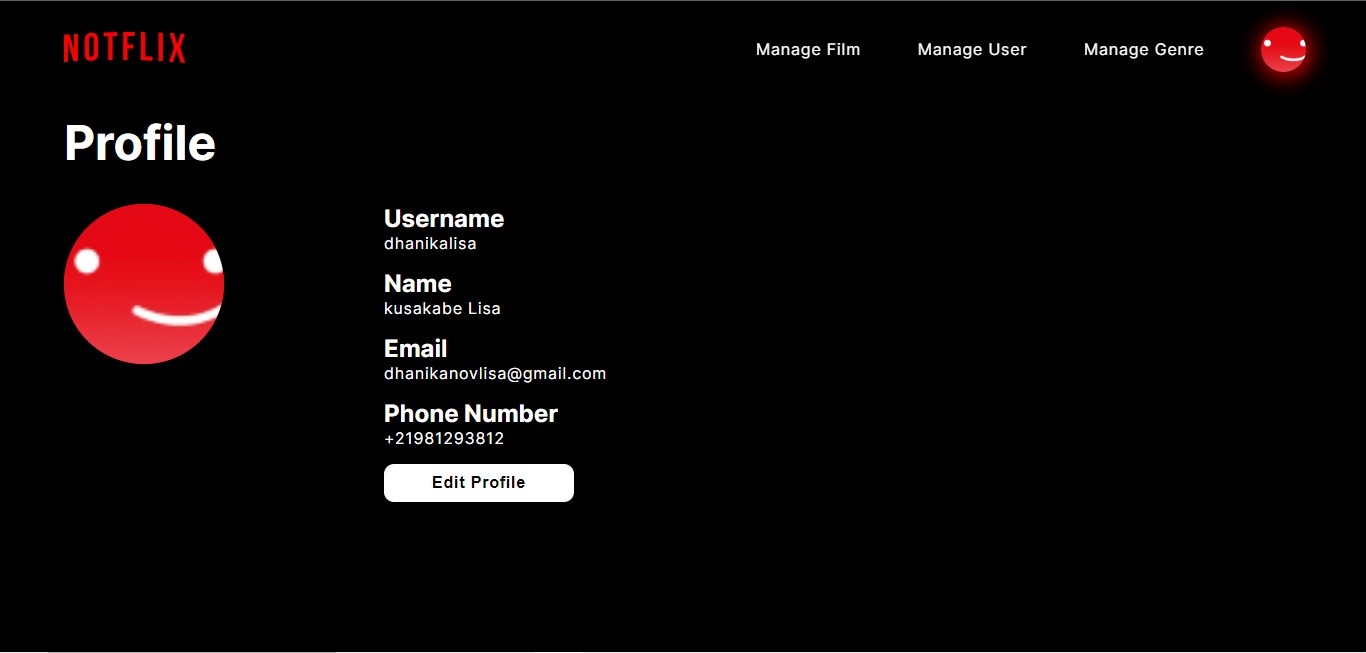
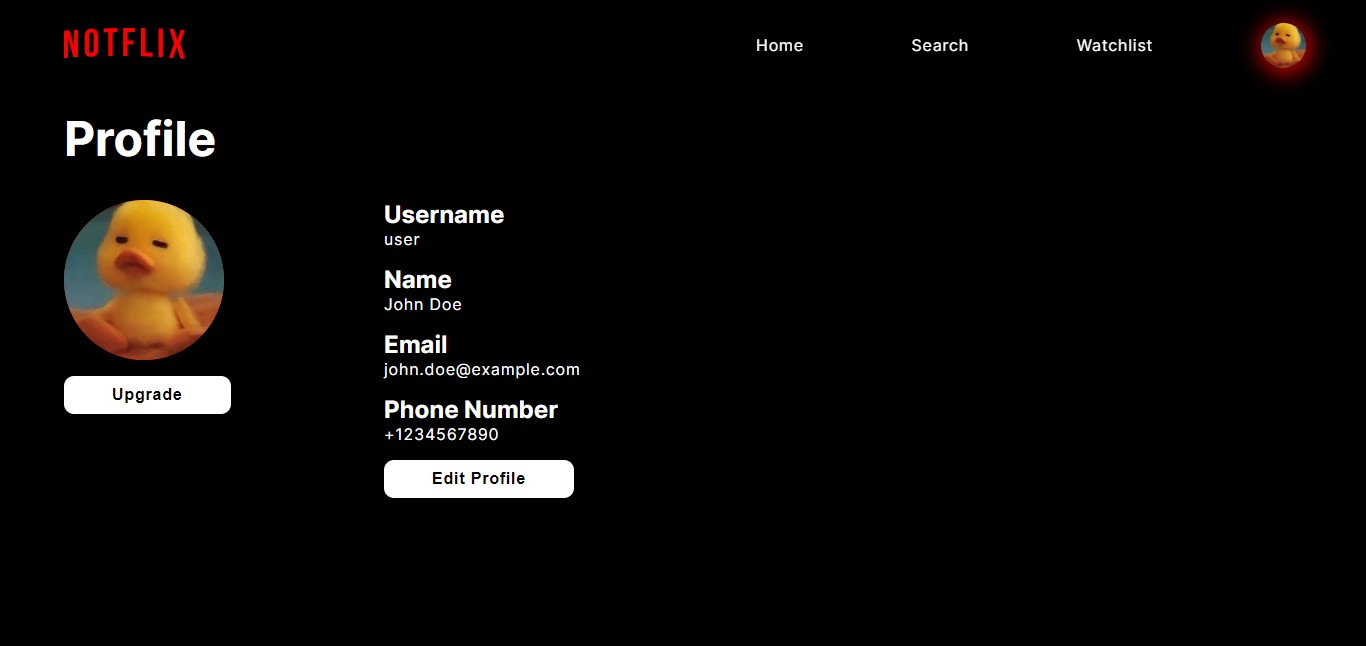
add: screenshots

diff --git a/README.md b/README.md
@@ -19,6 +19,10 @@ Aplikasi ini dibangun menggunakan vanilla PHP, Javascript, HTML dan CSS dengan m
 14. Add Genre
 15. Delete Genre
 16. Edit profile
+### New Feature
+17. Premium Film
+18. Watch Premium Film
+19. Request Premium Subscription
 
 # Cara instalasi
 1. Clone repository ini dengan perintah `git clone https://gitlab.informatika.org/if3110-2023-01-34/tugas-besar-1.git`
@@ -66,6 +70,8 @@ atau dari github `git clone https://github.com/dhanikanovlisa/Tubes-1-WBD.git`
 ![image](screenshots/admin_mode.jpg)
 ![image](screenshots/responsive_homepage.jpg)
 ![image](screenshots/responsive_login.jpg)
+![image](screenshots/profile_pending.jpg)
+![image](screenshots/profile_premium.jpg)
 
 
 # Pembagian Tugas
@@ -88,7 +94,9 @@ atau dari github `git clone https://github.com/dhanikanovlisa/Tubes-1-WBD.git`
 | **Add Genre**       | 13521132     |
 | **Delete Genre**    | 13521132     |
 | **Edit Profile**    | 13521132     |
-
+| **Premium Film**    | 13521130     |
+| **Watch Premium Film**    | 13521130     |
+| **Request Premium Subscription**    | 13521165     |
 
 
 ## Client Side
@@ -110,3 +118,6 @@ atau dari github `git clone https://github.com/dhanikanovlisa/Tubes-1-WBD.git`
 | **Add Genre**       | 13521132     |
 | **Delete Genre**    | 13521132     |
 | **Edit Profile**    | 13521132     |
+| **Premium Film**    | 13521130     |
+| **Watch Premium Film**    | 13521130     |
+| **Request Premium Subscription**    | 13521165     |
